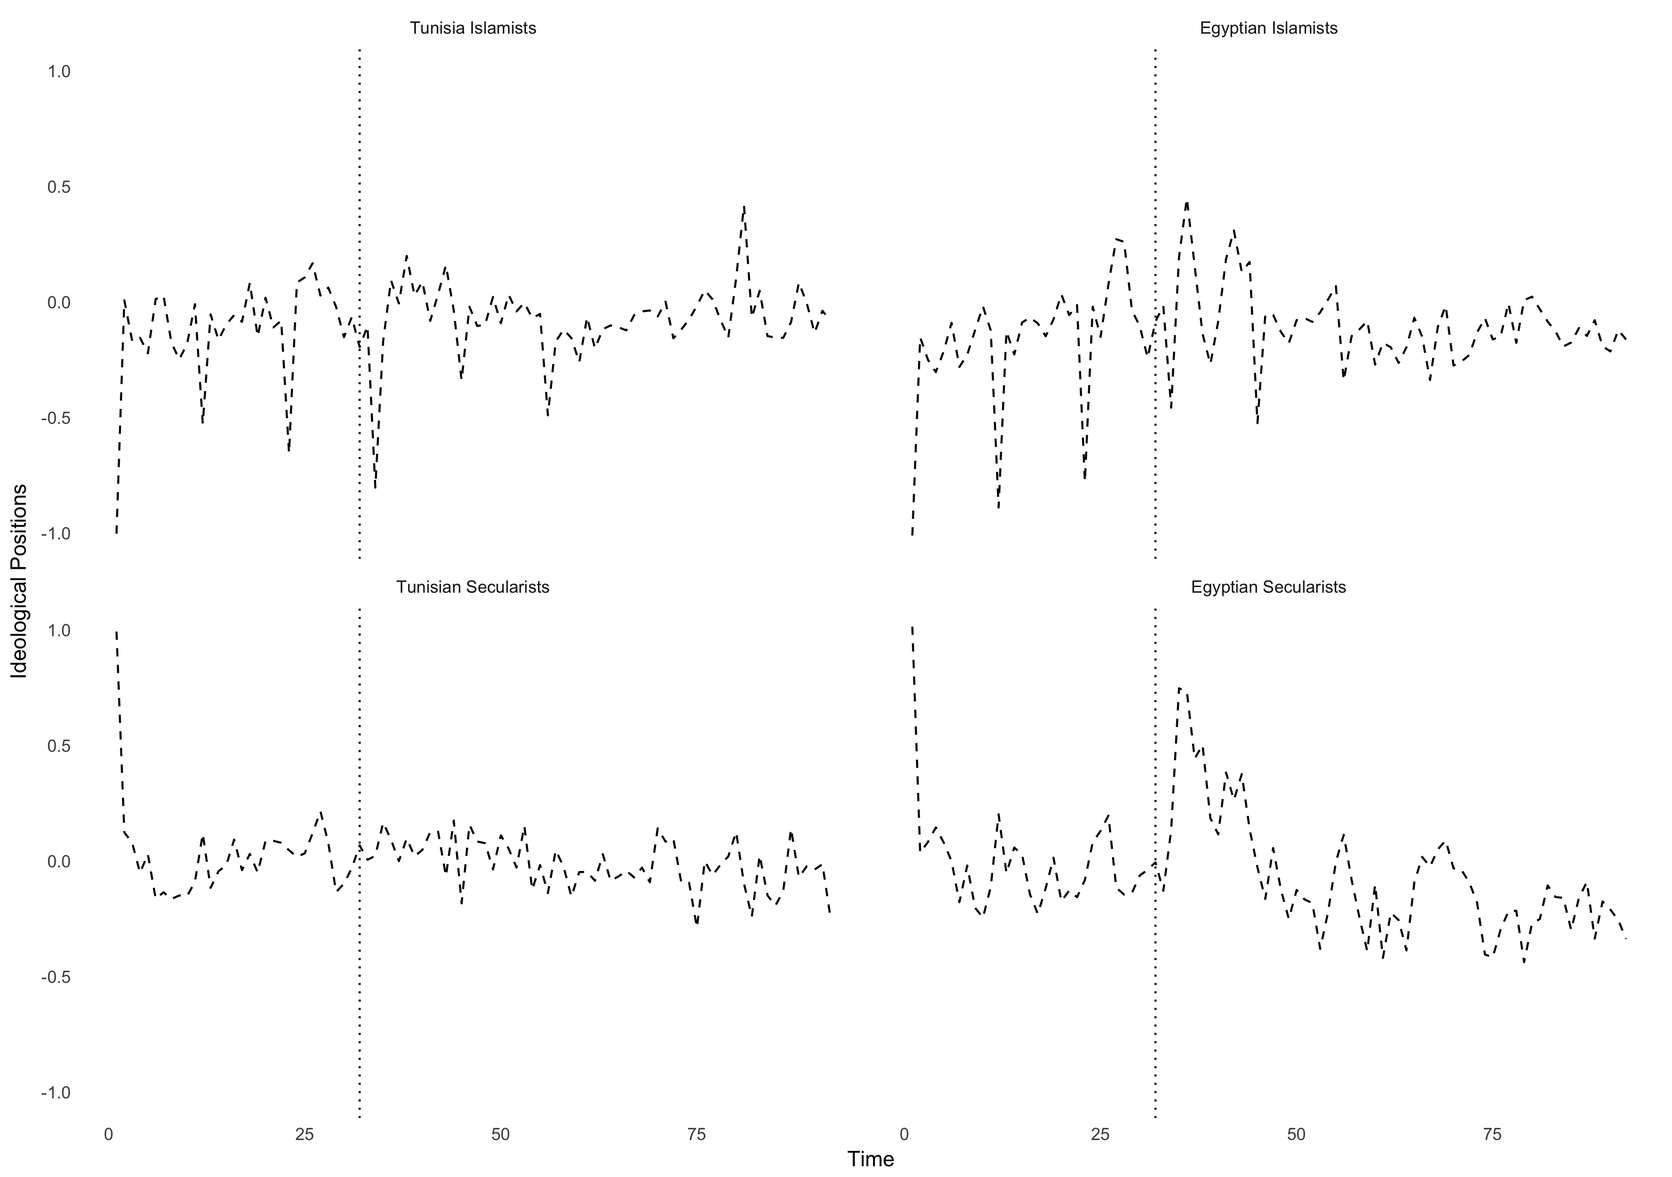
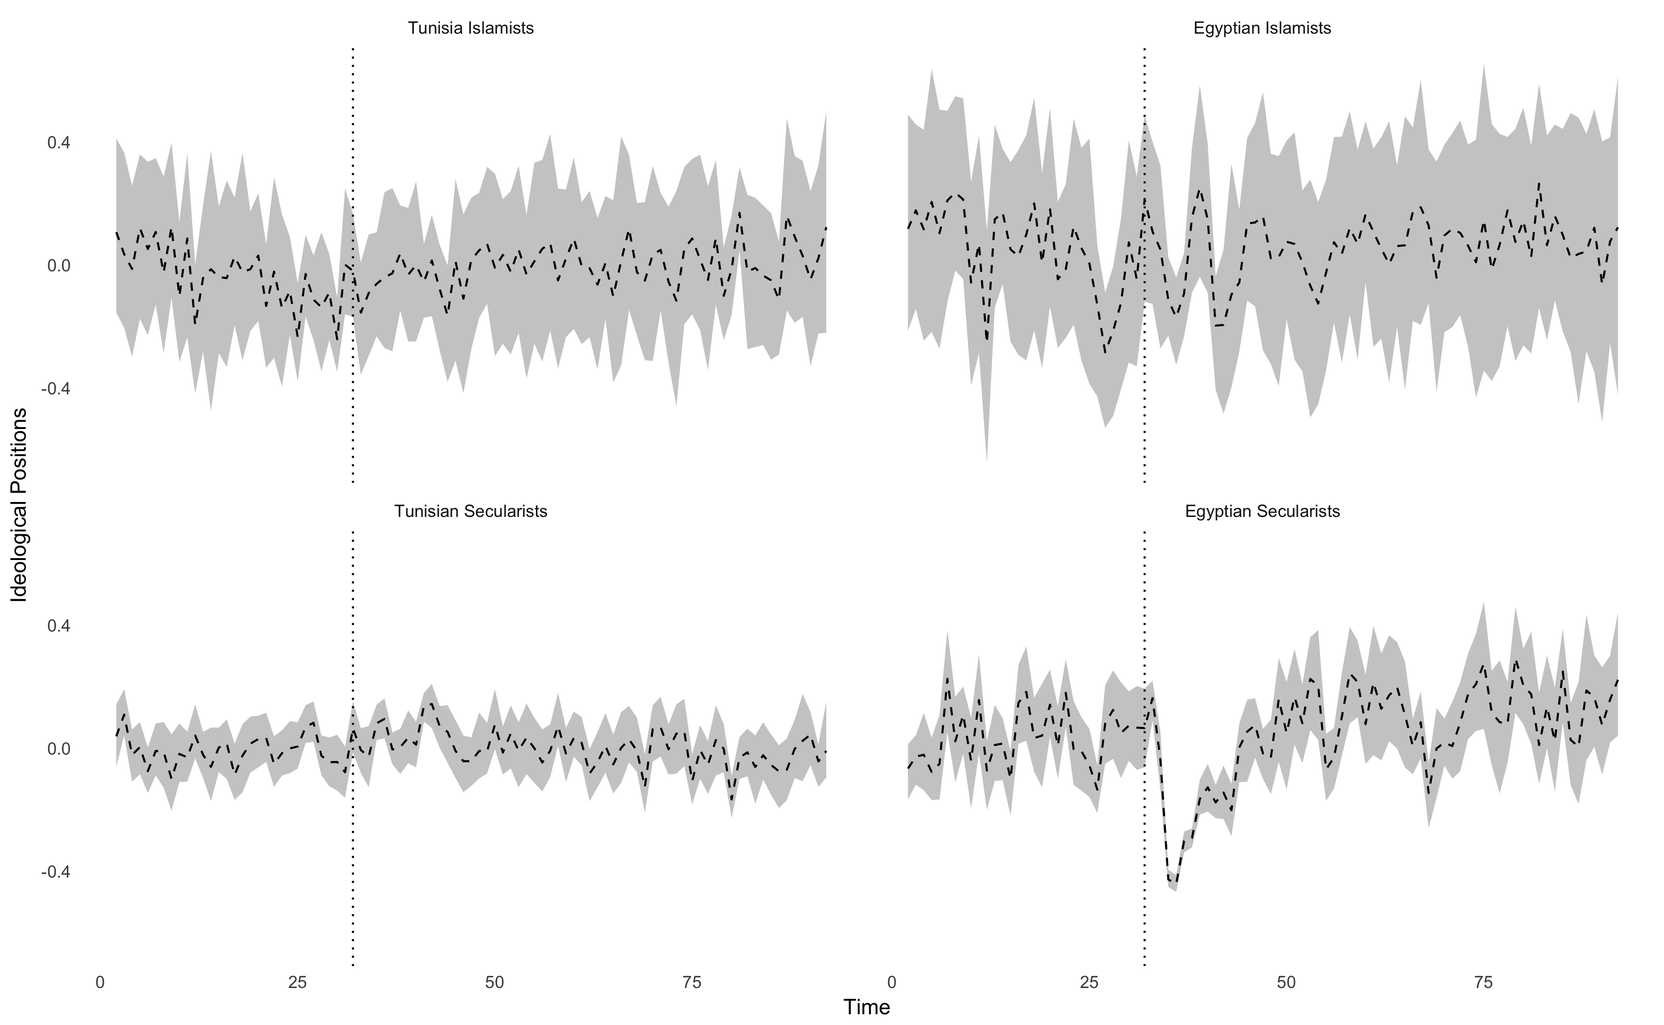
paper updates

diff --git a/Kubinec Owen APSA 2017 Islamist-Secularist Polarization.tex b/Kubinec Owen APSA 2017 Islamist-Secularist Polarization.tex
@@ -5,6 +5,7 @@
 \usepackage{array}
 \usepackage{ragged2e}
 \usepackage[utf8]{inputenc}
+\usepackage[T1]{fontenc}
 \usepackage{fullpage}
 \usepackage{parskip}
 \usepackage{titling}
@@ -37,11 +38,13 @@
 
 \maketitle
 
-\abstract{Scholars continue to disagree as to how far contentious politics diffuses within and across states and by what mechanisms it does so. We use new data and empirical measures to test polarization during and after the Arab Uprisings of 2010-12. After authoritarian governments began to fall, populations in several states began to polarize between secularists and Islamists over what kind of regime was to replace the ousted one. We hypothesize that this Islamist-secularist polarization was triggered by catalytic events (such as Muslim Brotherhood electoral victory in Egypt) and diffused transnationally owing to social media and satellite television, dividing anti-status-quo actors throughout the region. To examine polarization over time, we collected a comprehensive dataset on elite and citizen Twitter accounts across Arab countries after the Arab Spring. Using item-response models, we model polarization as the difference in latent ideological position between elites, and we show how polarization within countries changes over time in response to exogenous political shocks. By doing so we are the first to offer compelling statistical evidence of the endogenous process of polarization across competing ideological groups and states.}\footnote{\linespread{.5} Prepared for presentation at the Annual Meeting of the American Political Science Association, San Francisco, 1 September 2017. Copyright \textcopyright 2017 by the American Political Science Association. The authors thank the Amb. Henry J. and Mrs. Marion R. Taylor Chair at the University of Virginia for research funding.  John Owen thanks the Liu Institute for Global Inquiry at the University of British Columbia for providing a research venue. Robert Kubinec thanks the University of Virginia's Quantitative Collaborative for computing resources and Jonathan Kropko for helpful feedback on this project.}
+	\begin{abstract}
+		Scholars continue to disagree as to how far contentious politics diffuses within and across states and by what mechanisms it does so. We use new data and empirical measures to test polarization during and after the Arab Uprisings of 2010-12. After authoritarian governments began to fall, populations in several states began to polarize between secularists and Islamists over what kind of regime was to replace the ousted one. We hypothesize that this Islamist-secularist polarization was triggered by catalytic events (such as Muslim Brotherhood electoral victory in Egypt) and diffused transnationally owing to social media and satellite television, dividing anti-status-quo actors throughout the region. To examine polarization over time, we collected a comprehensive dataset on elite and citizen Twitter accounts across Arab countries after the Arab Spring. Using item-response models, we model polarization as the difference in latent ideological position between elites, and we show how polarization within countries changes over time in response to exogenous political shocks. By doing so we are the first to offer compelling statistical evidence of the endogenous process of polarization across competing ideological groups and states.\footnote{\linespread{.5} Prepared for presentation at the Annual Meeting of the American Political Science Association, San Francisco, 1 September 2017. Copyright \textcopyright 2017 by the American Political Science Association. The authors thank the Amb. Henry J. and Mrs. Marion R. Taylor Chair at the University of Virginia for research funding.  John Owen thanks the Liu Institute for Global Inquiry at the University of British Columbia for providing a research venue. Robert Kubinec thanks the University of Virginia's Quantitative Collaborative for computing resources and Jonathan Kropko for helpful feedback on this project.}
+	\end{abstract}
 
-\section*{Introduction}
+	\section*{Introduction}
 
-The Arab Uprising of 2010-13 was an exceedingly complex phenomenon.  The initial event – the self-immolation of Mohamed Bouazizi in Sidi Bouzid, Tunisia – triggered a chain of events marked by interaction and feedback loops.  During the Uprising, experts predicted a particular unfolding or winding down of the phenomenon, and often were wrong.  Some assured their readers that the Tunisian unrest of December 2010 and January 2011 would not spread to other Arab countries (Karon 2011; Walt 2011); others predicted that the unrest that did spread to Libya, Egypt, Yemen, Syria, and elsewhere would bring liberal democracy to those countries (Obama 2011, Jupp\'{e} 2011 – any non-politicians?).  In other words, two of the unpredictable developments were the spread of unrest across countries and the evident shift in the goals of rebels.  
+	The Arab Uprising of 2010-13 was an exceedingly complex phenomenon.  The initial event – the self-immolation of Mohamed Bouazizi in Sidi Bouzid, Tunisia – triggered a chain of events marked by interaction and feedback loops.  During the Uprising, experts predicted a particular unfolding or winding down of the phenomenon, and often were wrong.  Some assured their readers that the Tunisian unrest of December 2010 and January 2011 would not spread to other Arab countries (Karon 2011; Walt 2011); others predicted that the unrest that did spread to Libya, Egypt, Yemen, Syria, and elsewhere would bring liberal democracy to those countries (Obama 2011, Jupp\'{e} 2011 – any non-politicians?).  In other words, two of the unpredictable developments were the spread of unrest across countries and the evident shift in the goals of rebels.  
 A helpful approach to explaining, if not predicting, the progress of the Arab Uprising and infectious political unrest more generally is via group polarization, or the endogenous segregation of a population by preferences into two or more mutually antagonistic groups.  
 
 Group polarization is situational and hence may be short-lived; it is different from the long-term, materially based social polarization that many social scientists study (Moulaert et al. 2003).  Group polarization is a way to conceive of how identities and preferences change in response to exogenous events such as a public demonstration or a coup d'\'{e}tat.  A stylized version runs as follows:  At time $t$, an unmodeled event takes place (e.g., Bouazizi's self-immolation); at $t+1$, the news spreads; at $t+2$, a portion of the population of Sidi Bouzid becomes angry and identifies more strongly against the local and national government, as reflected in anti-government speech and action; at $t+3$, news of that speech and action spreads; at $t+4$, a portion of Sidi Bouzid's population becomes angry at the protesters and identifies more strongly with the government, as reflected in pro-government speech and action; at $t+5$, news of that speech and action spread within Tunisia and beyond; and so on.  Group polarization is self-reinforcing.  It may be slowed, halted, or reversed by various developments, including coercion (censorship, physical force) by governments.
@@ -58,7 +61,7 @@ In what follows, we explicate the logic of group polarization in an informal mod
 \section*{Group Polarization: An Informal Model}
 Polarization has been studied extensively by social scientists.  Much of that work concerns social polarization, or segregation into groups that are stable over long periods of time (such as ``Red America" and ``Blue America").   By group polarization, we mean a process of segregation – not an equilibrium – that is relatively short-term or situational yet may be politically consequential.   Along with other scholars, we define polarization as a social construct, namely as progressive identity change that entails preference change.   When two actors polarize, at time $t$, both actors may prefer a 50-50 allocation of goods; at $t+1$, each may prefer a 60-40 allocation in its favor; at $t+2$, a 75-25 allocation; and so on.  At the limit of polarization, each side wishes the other destroyed.   Group polarization, then, is one way to formulate a progressive worsening of conflict; it does not cause conflict, in the sense of an independent variable causing a dependent one.  Rather, polarization is conflict that is self-intensifying.  Group polarization is endogenous, not in the sense that it is unrelated to pre-existing cleavages bur rather in the sense that, once triggered by exogenous events, it is self-intensifying.   It entails the altering of individuals' preferences and practices and creates new threats and opportunities for various actors, including actual and aspiring rulers.  
 
-Stated informally, the basic group polarization model is simple.  Assume a population of 100 persons, all 100 belonging to one half or another of $x$ pairs of opposing social groups (labor or capital, democrats or authoritarians, Islamists or secularists, urban or rural, etc., etc.).  Fifty are pro-democracy, fifty pro-authoritarian.  These groups do not correlate significantly to any other groups; e.g., democrats are as likely to be Islamist as secularist.  The population thus has cross-cutting cleavages.   At time $t$, the population begins in an unbiased equilibrium, such that, although individuals may identify more strongly with one group affiliation than with others, in the population as a whole, no identity axis predominates; hence social interaction does not skew the distribution of resources, including information, to any of the social groups (Dunning and Harrison 2010).  Now suppose that at t+1 three democrats – one Islamist and two secularist, and two urban and one rural – publicly beat an authoritarian.  Assuming a relatively free flow of information, that event can trigger the polarization of the population along a democratic-authoritarian ideological axis, such that democrats and authoritarians care less and less about class, being urban or rural, or mosque-state questions and more and more about ideology.  If not disrupted, polarization by definition culminates in inter-group violence.
+Stated informally, the basic group polarization model is simple.  Assume a population of 100 persons, all 100 belonging to one half or another of $x$ pairs of opposing social groups (labor or capital, democrats or authoritarians, Islamists or secularists, urban or rural, etc., etc.).  Fifty are pro-democracy, fifty pro-authoritarian.  These groups do not correlate significantly to any other groups; e.g., democrats are as likely to be Islamist as secularist.  The population thus has cross-cutting cleavages.   At time $t$, the population begins in an unbiased equilibrium, such that, although individuals may identify more strongly with one group affiliation than with others, in the population as a whole, no identity axis predominates; hence social interaction does not skew the distribution of resources, including information, to any of the social groups (Dunning and Harrison 2010).  Now suppose that at $t+1$ three democrats – one Islamist and two secularist, and two urban and one rural – publicly beat an authoritarian.  Assuming a relatively free flow of information, that event can trigger the polarization of the population along a democratic-authoritarian ideological axis, such that democrats and authoritarians care less and less about class, being urban or rural, or mosque-state questions and more and more about ideology.  If not disrupted, polarization by definition culminates in inter-group violence.
 
 Transnational group polarization takes place when polarization spans two or more countries at once.  Citizenship in a state amounts to yet another group affiliation, albeit normally an especially politically salient one that carries the advantages of a state apparatus.  States are set up to foster group identity and loyalty vis-à-vis foreigners.  They may use physical segregation, closed or semi-closed national borders, national economic integration, propaganda, history, threats of war, coercion, and other means to induce a strong national identity among citizens and hence a strong sense that foreigners are an ``other."  Yet, interaction – communication, trade, investment, travel – across state borders is normal, particularly among most countries in the twenty-first century.   States vary in their capacity to build and maintain a national identity and to have that identity perpetually trump all other group affiliations, including transnational ones, across all conditions.   Thus transnational group affiliations – ethnic, religious, ideological, class, sexual – are part of life for people in most countries.  Insofar as communication across state boundaries is uncensored by states, transnational group affiliations can yield transnational group polarization.  The informal model above may then incorporate democrats and authoritarians in a second state (and a third, a fourth, and so on).
 
@@ -84,6 +87,20 @@ Social-psychological literature notes that people vary by level of commitment to
 
 It stands to reason that the low-commitment actors posited by Ellemers et al. would behave like Smith's ``rational" actors.
 In sum, an exogenous event that either raises the prestige of social group $A$ or threatens group $A$ may cause people who belong to multiple overlapping groups $A$ through $Z$ to identify more strongly with $A$ and against $\neg A$ and less with $B$ and against $\neg B$, etc.  Increases in status and in threats may be simultaneous:  an increase in $A$'s status may simultaneously threaten members of $\neg A$ and thus cause them to identify more as $\neg A$s and against group $A$.  Large public anti-government demonstrations, as take place during a typical political spring, can both raise the status of being anti-government and simultaneously threaten those who identify with the government.  And again, polarization tends to feed on itself:  as members of $A$ observe members of $\neg A$ identifying more as $\neg A$s, members of $A$ will identify still more strongly with $A$; and so on. 
+
+\section*{Hypotheses}
+
+We propose to test the following hypotheses based on this theory:
+
+\begin{tabular}{lp{10cm}}
+	H1 & After polarizing events, the difference in latent ideological positions between competing groups will diverge from each other very quickly.\\
+	H2 & After polarizing events, cross-national ideological groups will tend to increase within-country polarization in response to events occurring in the other country.\\
+	H3 & After polarizing events, the direction of feedback between cross-national groups will vary depending on which country experienced the polarizing event.
+\end{tabular}
+
+We can further operationalize the first hypothesis by estimating ideological position as a latent ideal point that can vary over time. For these reasons, we collected data on ideological actors in Egypt and Tunisia from Twitter, as we described in the next section. For hypotheses 2 and 3, we need to have summary statistics that look at patterns of ideological interaction across countries and see if these summary statistics change as a result of the polarizing event of interest. 
+
+The primary event we are most interested in is the coup that overthrew President Mohammed Morsi in July of 2013 as it represented a clear division between secularists and Islamists. However, we will also examine other polarizing events, including the Muslim-Christian clashes on April 6, 2013 and the government's attack on pro-Morsi demonstrators on August 13, 2013, both of which occurred in Egypt.
  
 \section*{Data Collection}
 Analyzing these phenomena quantitatively is difficult because we need good measures of ideology across countries that also varies over time. The advent of social media during the Arab Uprisings provides some of the first available data that we can use to examine the predictions of the theory. We chose to use Twitter due to its public nature and the ability to closely track elite users, or those users with a large number of followers. We built a sample of Egyptian and Tunisian twitter users that are broadly representative of political thinking \& discourse within these countries.
@@ -138,7 +155,7 @@ To apply this form of feedback process to IRT, first consider the standard 2-PL 
 Y_{ij} = \prod^{i=1}_I \prod^{j=1}_J \phi(\delta_j * \alpha_i - \eta_j)
 \end{equation}
 
-In this model, $\alpha_i$ represent the latent ideal points of the elites, while $\delta_j$ represent discrimination parameters for each citizen (equivalent to factor scores) and $\eta_j$ can be interpreted as the average probability that citizen $j$ retweets elite $i$ $Y_{ij}$ times. Given that in our data the number of re-tweets of a particular elite $i$ has a maximum of three for each period, we use an ordered-logistic function $phi(\cdot)$ for $Y_{ij}$ that estimates cutpoints $c_{ijk}$ for each retweet $k \in K$ with a maximum of $K=3$.\footnote{For a full explication of the ordinal IRT model for ideal points, see \parencite{kubinec2017}}
+In this model, $\alpha_i$ represent the latent ideal points of the elites, while $\delta_j$ represent discrimination parameters for each citizen (equivalent to factor scores) and $\eta_j$ can be interpreted as the average probability that citizen $j$ retweets elite $i$ $Y_{ij}$ times. Given that in our data the number of re-tweets of a particular elite $i$ has a maximum of three for each period, we use an ordered-logistic function $\phi(\cdot)$ for $Y_{ij}$ that estimates cutpoints $c_{ijk}$ for each retweet $k \in K$ with a maximum of $K=3$.\footnote{For a full explication of the ordinal IRT model for ideal points, see \parencite{kubinec2017}}
 
 For our purposes, we have four $\alpha_i$ parameters that represent each of our ideological groups, so we can subscript them as $\alpha_{ig}$ where $g \in [1,2]$ cleavages (Islamist, Secularist) and $i \in [1,2]$ countries (Tunisia, Egypt).  Following on \textcite{quinn2002} and \textcite{kropko2013}, we can include the co-integration between the ideological groups $g$ via priors on the $\alpha_{ig}$:
 
@@ -161,10 +178,27 @@ To build a full Bayesian model, we need to assign priors to all other parameters
 	\mu_{\delta} &\sim N(0,2);\\
 \end{align*}
 
-The prior on $\gamma_g$ is sampled from an unconstrained space that corresponds to using a logit link function on $(0,1)$. The hierarchical priors on $\eta_j$ and $\delta_j$ are used for both regularization, as there are many citizens in the model, and for identification \parencite{gelman2005}. The difference prior on the cutpoints $c_k$ are used because the cutpoints are only identified up to a difference. Finally, the feedback parameter $\beta_{2g}$ is given a tight prior around 1 to reflect our prior belief that ideological groups in either country are equally likely to influence each other. We further identify the model by constraining the polarity of $\delta_j$s and by fixing the first ideal point $\alpha_{ig1}$ for each groups to either 1 or -1 so that the system evolves from the same starting points.
+The prior on $\gamma_g$ is sampled from an unconstrained space that corresponds to using a logit link function on $(0,1)$. The hierarchical priors on $\eta_j$ and $\delta_j$ are used for both regularization, as there are many citizens in the model, and for identification \parencite{gelman2005}. The difference prior on the cutpoints $c_k$ are used because the cutpoints are only identified up to a difference. Finally, the feedback parameter $\beta_{2g}$ is given a tight prior around 1 to reflect our prior belief that ideological groups in either country are equally likely to influence each other. We further identify the model by constraining the polarity of $\delta_j$s and by fixing the first ideal point $\alpha_{ig1}$ for each groups to either .5 or -.5 so that the system evolves from the same starting points.
 
- 
+ To illustrate the model, we simulated data by first generating ideal points corresponding to the priors listed above, and then simulating the ordered-logit response as a function of the ideal points. The results for four latent time series, each of which is paired with another, is shown in Figure \ref{sim_data}. As can be seen, the two sets of time series each follow a random-walk pattern over time without a clear direction. However, the difference between the time series is stable and does not vary. 
+ \begin{figure}[!h]
+ 	\caption{Simulated Data for the Co-integrated IRT Time Series Model}\label{sim_data}
+ 	\centering
+ 	\includegraphics[width=.9\linewidth]{ecm_example.png}
+ \end{figure}
 
+The vertical line in Figure \ref{sim_data} shows a point where we changed the values for the $\gamma$ parameter governing the level of co-integration. For the top time series, $\gamma$ fell, so after the dotted line the two time series do not track each other as closely. For the bottom time series, $\gamma$ increased, causing the two time series to follow each other more closely. For this reason, the $\gamma$ parameter is a good way to test hypothesis 2 regarding how closely ideological groups follow each other across countries. We can further test hypothesis 1 by looking at whether ideological points show exogenous shocks as a result of polarizing events, and we can examine hypothesis 3 by looking at changes in the co-integration vector governing the direction of feedback between ideological groups.
+
+\section*{Model Results}
+
+We present here results from a variational Bayesian approximation of the true posterior \parencite{NIPS2015_5758} because the large number of parameters in the model (more than 32,000 citizen ideal points) makes standard MCMC estimation challenging. This variational approximation is quite close, although it will tend to under-estimate some covariances between parameters as it assumes normality of the posterior \parencite{NIPS2015_5758}. 
+
+We first present a plot showing the estimated ideal points for the four ideological groups along with vertical lines indicating when the polarizing events occurred. The confidence intervals on the chart reflects the 10\%-90\% density region of the posterior, hereafter referred to as the high-posterior density (HPD) interval. The HPD intervals are much smaller for the secularists because there are more Twitter accounts in the sample for these groups. As can be seen, the ideological point distributions are largely stable over time, as would be expected given the nine-month data collection period. Furthermore, ideal points are more stable in Tunisia than in Egypt, as would also be expected given that the polarizing events in this sample all occurred in Egypt. 
+ \begin{figure}[!h]
+	\caption{Estimated Ideal Point Locations for Cross-National Ideological Groups}\label{arab_id_facet}
+	\centering
+	\includegraphics[width=.9\linewidth]{arab_ideology}
+\end{figure}
 
 
 \printbibliography
